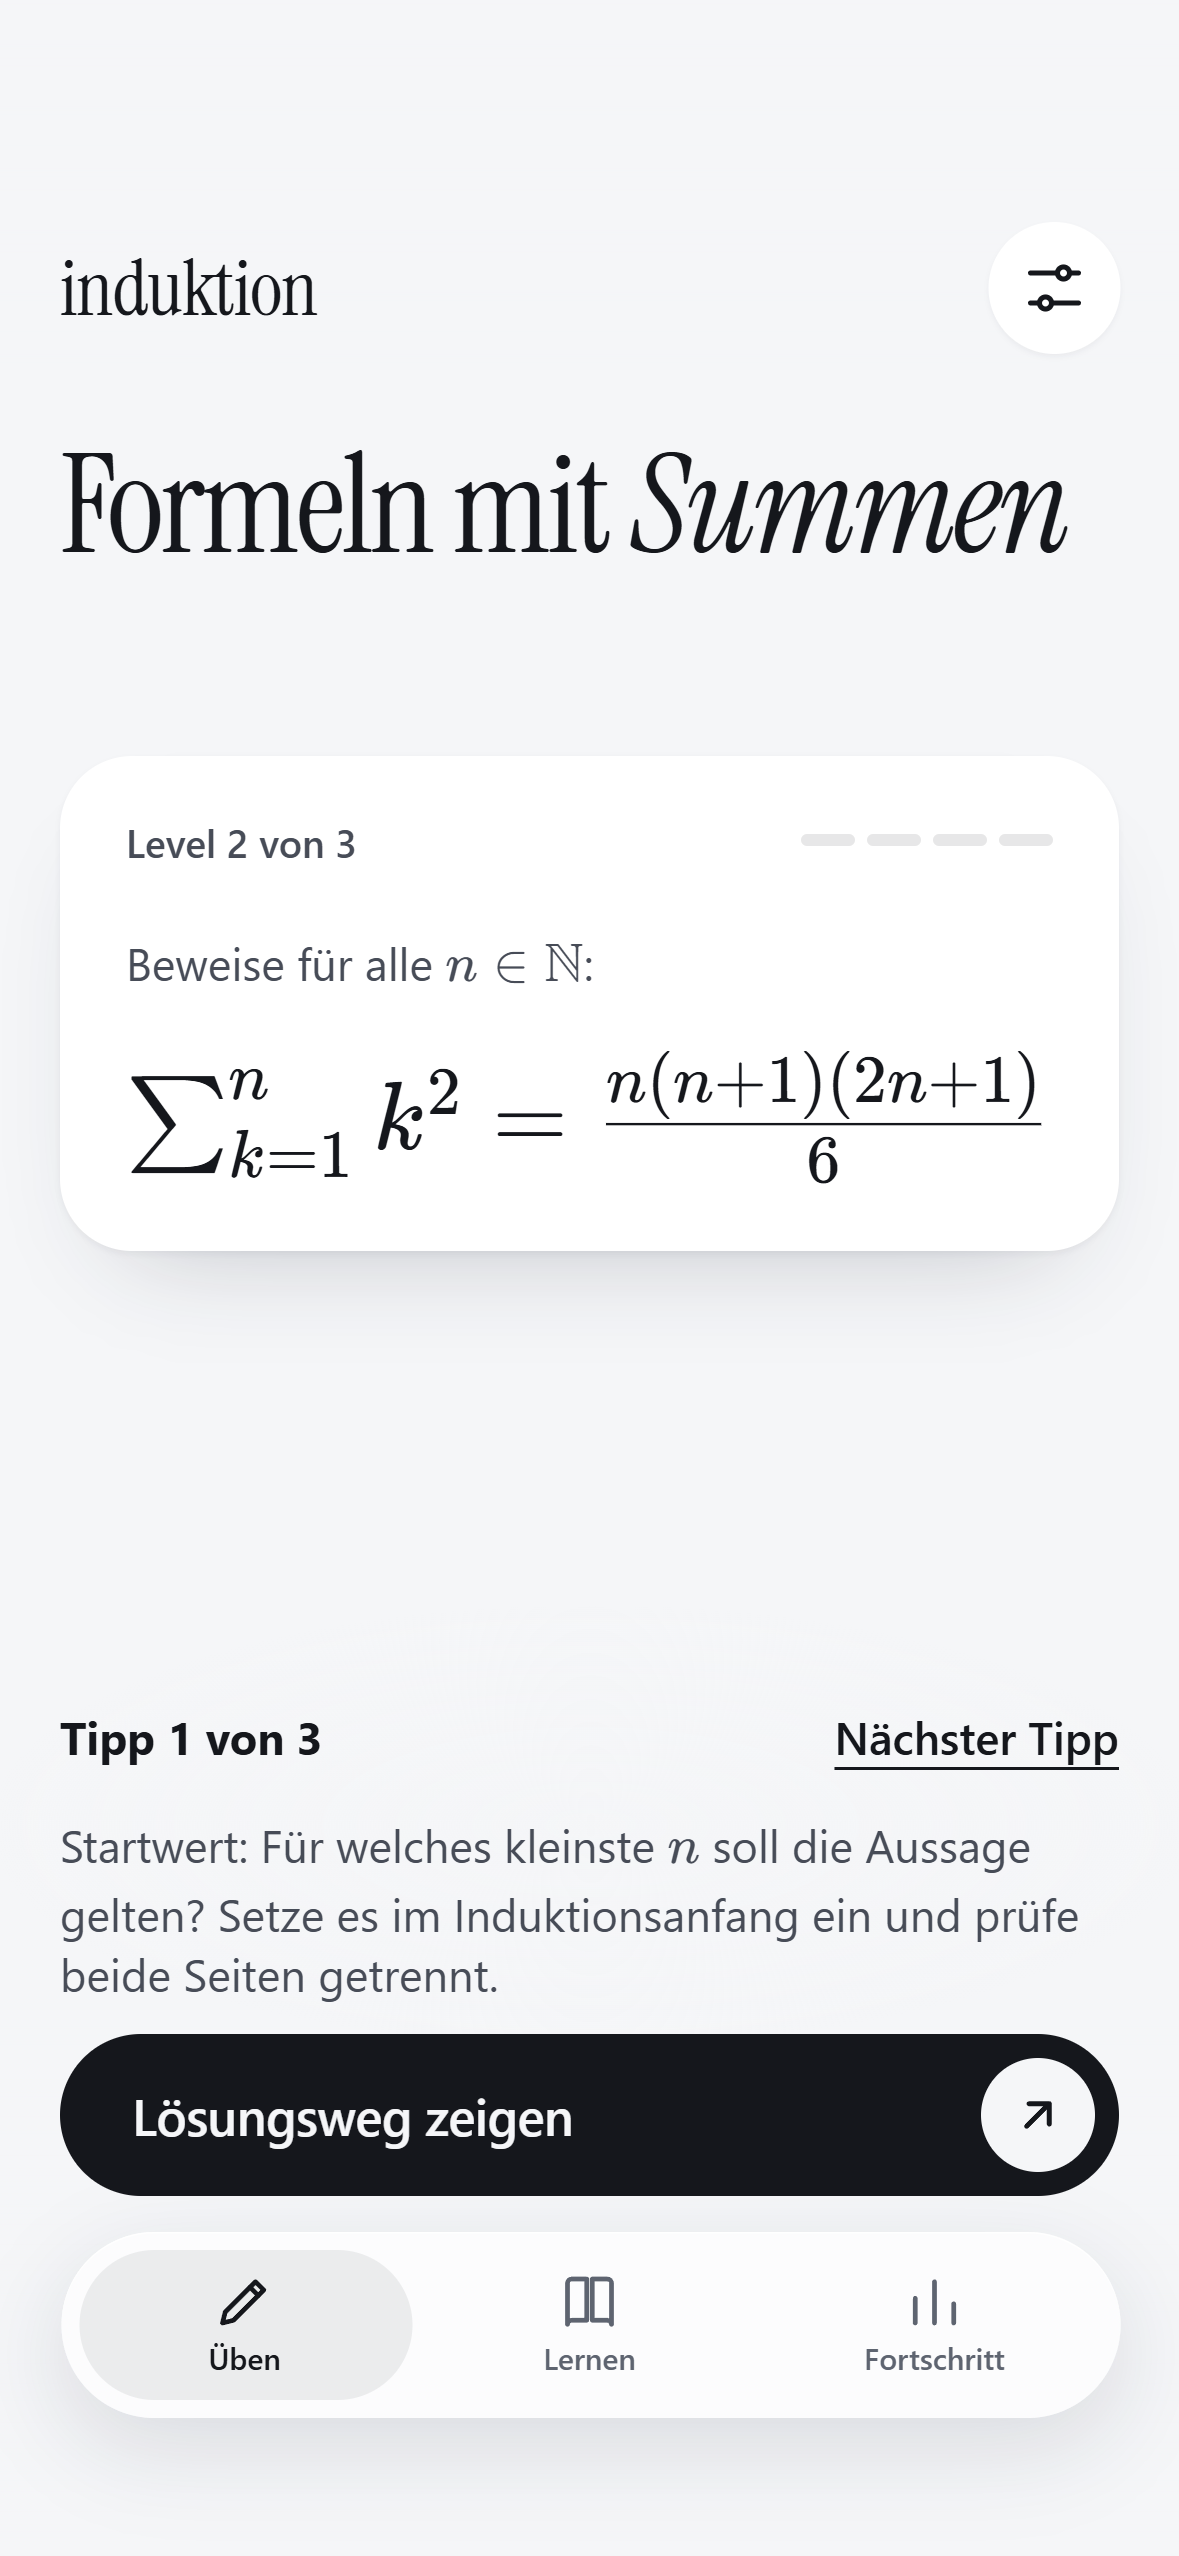
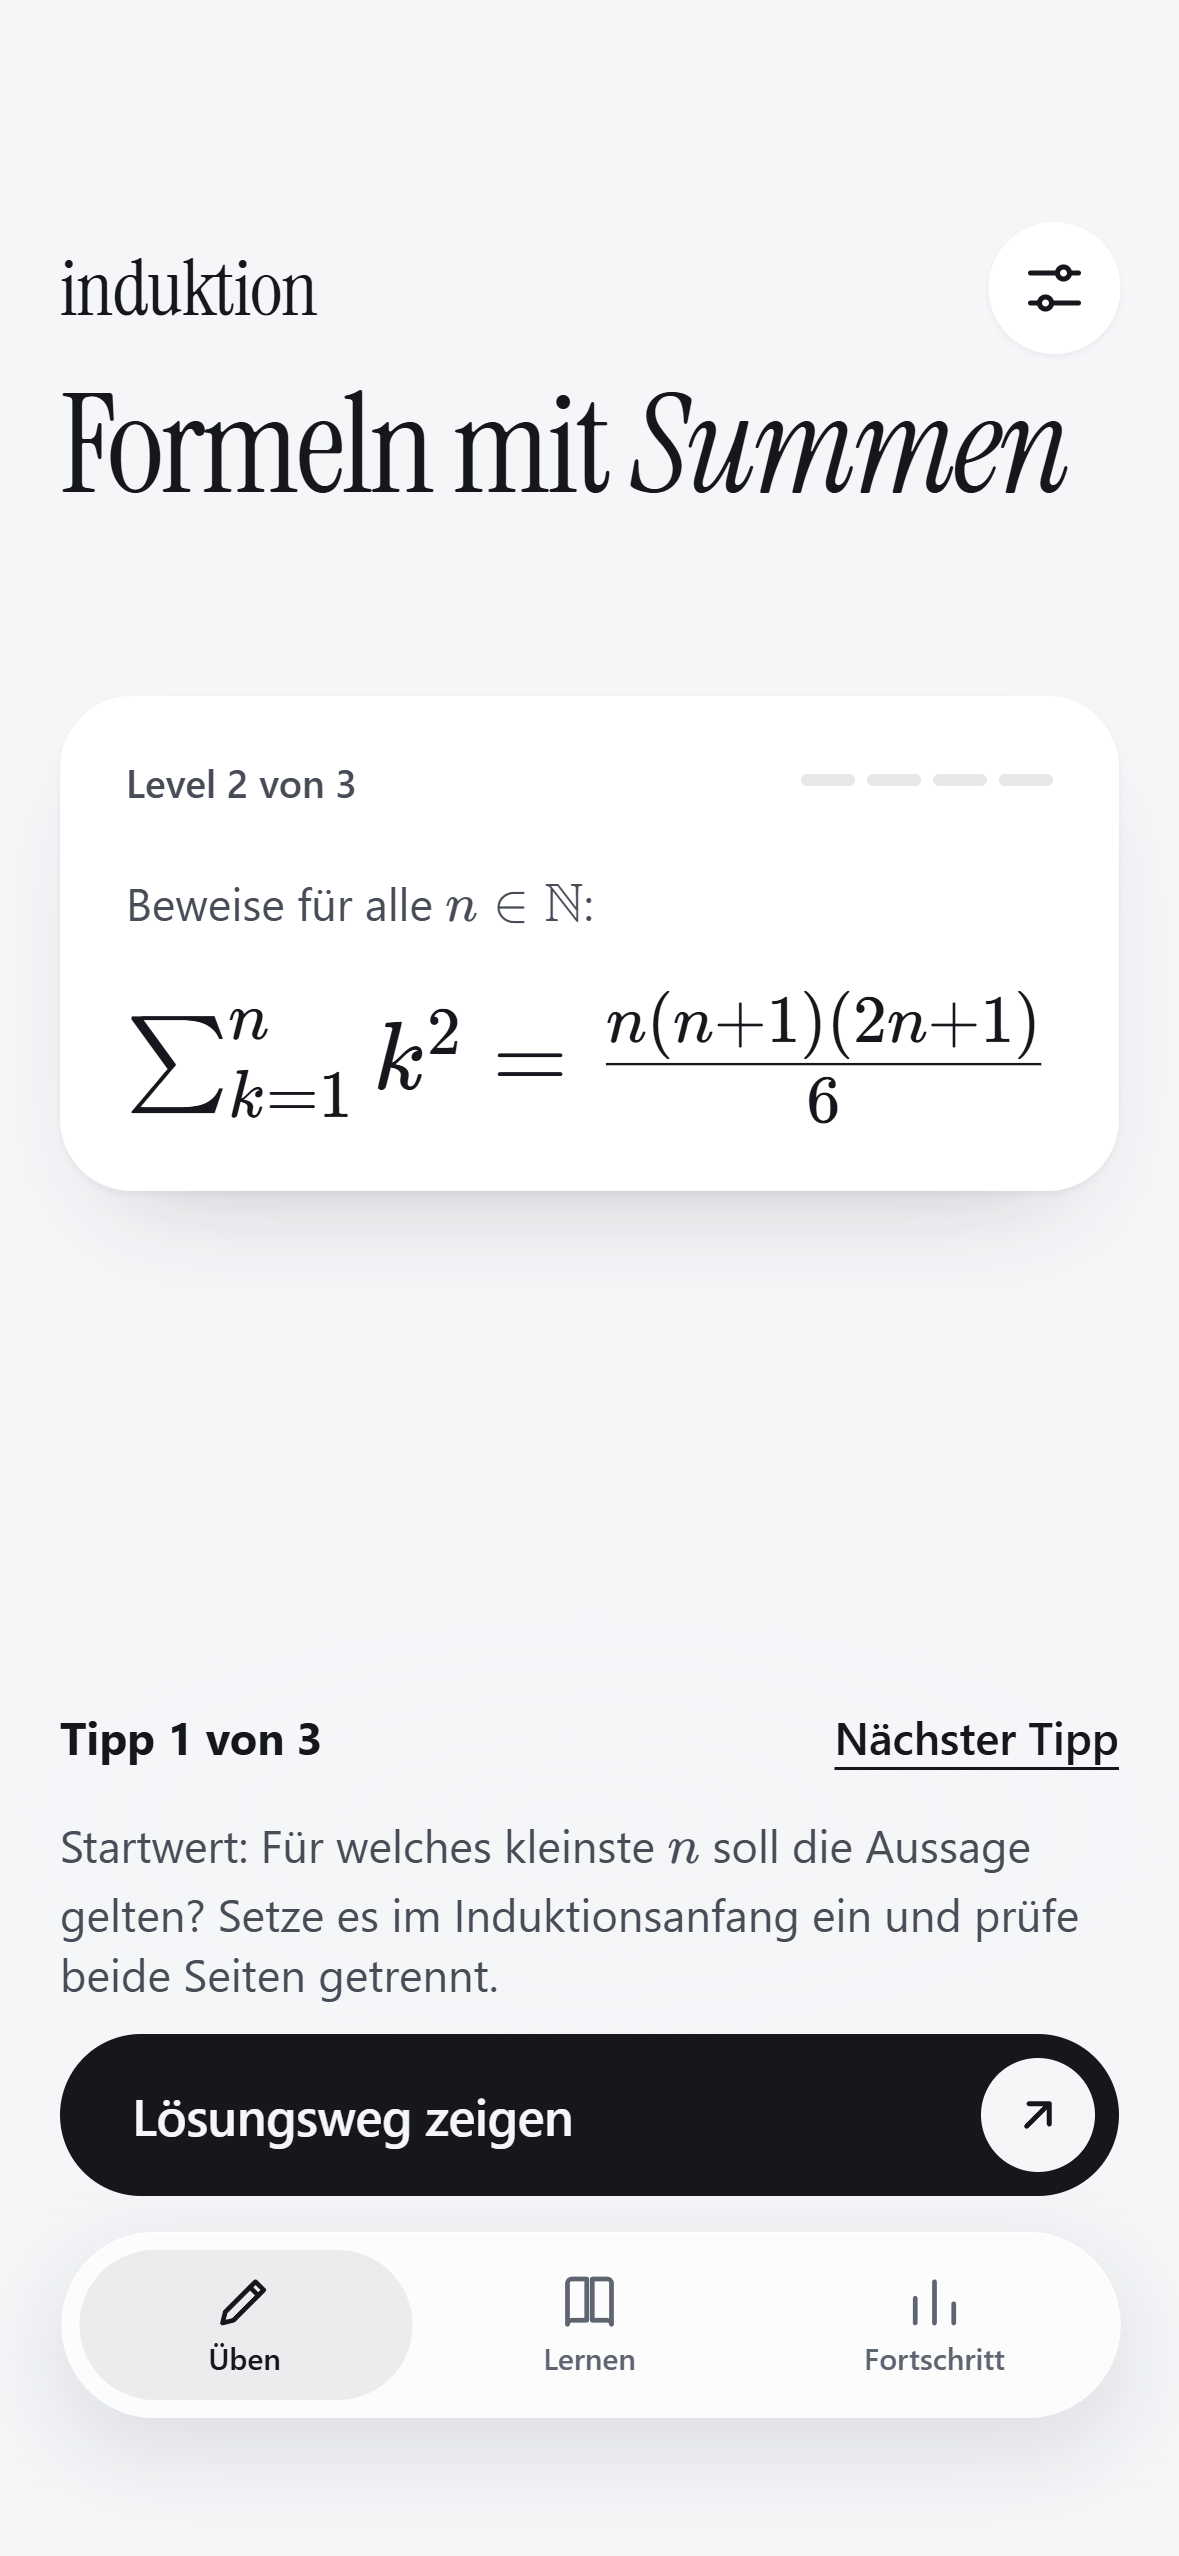
fix: weicher Blur-Verlauf oben und unten, Domino-Demo entfernt, weniger Leerraum, Landingpage ohne Rahmen

Changed region(s): [[0.0916, 0.2782, 0.8855, 0.4945], [0.0611, 0.1545, 0.916, 0.2164], [0.458, 0.34, 0.4885, 0.4018]]

diff --git a/app/css/app.css b/app/css/app.css
@@ -42,13 +42,15 @@ html { scroll-behavior: smooth; overscroll-behavior-y: contain; background: var(
 body {
   margin: 0; min-height: 100dvh; background: var(--ground); color: var(--ink); font: 400 1rem/1.35 var(--ui);
   overflow-x: hidden; touch-action: manipulation; -webkit-font-smoothing: antialiased;
-  padding: calc(var(--sat) + 74px) 0 calc(var(--sab) + 190px);
+  padding: calc(var(--sat) + 62px) 0 calc(var(--sab) + 150px);
 }
 main { max-width: calc(var(--col) + 2 * var(--m)); margin: 0 auto; padding: 0 var(--m); outline: none; }
 button, a, .tabbar { -webkit-user-select: none; user-select: none; -webkit-touch-callout: none; }
 button { font: inherit; color: inherit; cursor: pointer; border: 0; background: none; padding: 0; }
 button:active:not(:disabled) { transform: scale(0.97); }
 :focus-visible { outline: 2px solid var(--ink); outline-offset: 3px; border-radius: 6px; }
+main:focus-visible { outline: none; }
+body:not([data-view="ueben"]) { padding-top: calc(var(--sat) + 28px); }
 svg.i { width: 24px; height: 24px; fill: none; stroke: currentColor; stroke-width: 1.7; stroke-linecap: round; stroke-linejoin: round; flex: none; }
 
 .gb { position: fixed; left: 0; right: 0; z-index: 30; pointer-events: none; isolation: isolate; }
@@ -79,7 +81,7 @@ body:not([data-view="ueben"]) #topicBtn { visibility: hidden; }
 /* ---------- Titel ---------- */
 h1.page, .tt h1 { margin: 0; font: 400 2.7059rem/1.02 var(--serif); letter-spacing: -0.02em; text-wrap: balance; }
 h1 em { font-style: italic; }
-.tt { margin: 12px 0 clamp(22px, 7dvh, 64px); }
+.tt { margin: 4px 0 clamp(22px, 7dvh, 64px); }
 .tt.pg { margin-bottom: 22px; }
 
 /* ---------- Die Aufgabe ---------- */
@@ -166,18 +168,8 @@ h1 em { font-style: italic; }
 .example .ex { display: grid; grid-template-columns: 56px minmax(0, 1fr); gap: 4px 10px; align-items: baseline; padding: 8px 0; border-top: var(--hair) solid var(--rule); }
 .example .ex:first-of-type { border-top: 0; }
 .example .ex b { font: 700 0.8824rem var(--ui); } .example .ex span { font-size: 0.8824rem; line-height: 1.2353rem; color: var(--ink-2); } .example .ex .eq { grid-column: 2; font-size: 1rem; margin: 0; }
-.chain-demo { display: grid; grid-template-columns: repeat(6, 1fr); align-items: end; height: 96px; margin-top: 24px; padding: 0 4px; }
-.dm { position: relative; width: 22px; height: 62px; border-radius: 5px; background: var(--ink); transform-origin: 0 100%; transition: transform 0.45s cubic-bezier(0.5, 0, 0.7, 1), background 0.3s; }
-.dm::after { content: ""; position: absolute; left: 4px; right: 4px; top: 50%; height: 1.5px; background: var(--ground); opacity: 0.55; }
-.dm.fell { transform: rotate(43deg); background: var(--accent); }
-.dm.gap { background: none; border: 1.5px dashed var(--ink-3); } .dm.gap::after { display: none; }
-.dm.wob { animation: wob 0.35s; } @keyframes wob { 30% { transform: rotate(-5deg); } 60% { transform: rotate(3deg); } }
-.chain-labels { display: grid; grid-template-columns: repeat(6, 1fr); padding: 6px 4px 0; font-size: 0.7059rem; color: var(--ink-2); font-variant-numeric: tabular-nums; }
-.opts-d { display: grid; margin-top: 18px; }
 .set { display: flex; align-items: center; justify-content: space-between; gap: 16px; padding: 12px 0; border-top: var(--hair) solid var(--rule); min-height: 56px; }
 .set .seg3 { margin: 0; width: 210px; } .set .seg3 button { font-size: 0.8235rem; }
-.demo-row { display: flex; align-items: center; gap: 16px; margin-top: 16px; }
-.demo-row .msg { margin: 0; font-size: 0.8824rem; color: var(--ink-2); }
 h2.sec { margin: 40px 0 4px; font: 400 1.6471rem/1.1 var(--serif); letter-spacing: -0.01em; }
 .part { display: grid; grid-template-columns: 32px 1fr; gap: 4px 8px; align-items: baseline; padding: 11px 0; border-top: var(--hair) solid var(--rule); }
 .part b { font: 400 1.6471rem/1 var(--serif); color: var(--accent-text); grid-row: span 2; }

diff --git a/index.html b/index.html
@@ -41,7 +41,6 @@ nav .btn{min-height:40px;padding:0 20px;font-size:.95rem}
 .top .btns{display:flex;gap:12px;justify-content:center;flex-wrap:wrap;margin-top:24px}
 .phones{display:grid;grid-template-columns:repeat(3,1fr);gap:clamp(10px,3vw,36px);align-items:start;margin-top:56px}
 .phones>*:nth-child(2){margin-top:40px}
-.framed{border-radius:9% / 4.2%;box-shadow:0 0 0 6px var(--ink),0 24px 60px -20px rgba(21,23,28,.4)}
 .row{display:grid;grid-template-columns:1fr 1fr;gap:56px;align-items:center;padding:72px 0}
 .row.flip .shot{order:2}
 .row .shot{max-width:300px;margin:0 auto;width:100%}
@@ -85,15 +84,15 @@ dialog .btns{display:flex;gap:10px}dialog .btn{flex:1}
     <button class="btn ghost" id="how" type="button">Auf dem iPhone installieren</button>
   </div>
   <div class="phones">
-    <img class="framed" src="assets/screens/aufgabe.png" alt="Eine Aufgabe zur Summenformel" width="1179" height="2556">
-    <img class="framed" src="assets/screens/loesungsweg.png" alt="Der Lösungsweg, Schritt für Schritt" width="1179" height="2556">
-    <img class="framed" src="assets/screens/thema.png" alt="Thema auswählen" width="1179" height="2556">
+    <img src="assets/screens/aufgabe.png" alt="Eine Aufgabe zur Summenformel" width="1179" height="2556">
+    <img src="assets/screens/loesungsweg.png" alt="Der Lösungsweg, Schritt für Schritt" width="1179" height="2556">
+    <img src="assets/screens/thema.png" alt="Thema auswählen" width="1179" height="2556">
   </div>
 </header>
 
 <main class="wrap">
   <section class="row rv">
-    <img class="framed shot" src="assets/screens/aufgabe.png" alt="Aufgabe mit Formel" width="1179" height="2556" loading="lazy">
+    <img class="shot" src="assets/screens/aufgabe.png" alt="Aufgabe mit Formel" width="1179" height="2556" loading="lazy">
     <div>
       <h2>Jedes Mal <em>neu.</em></h2>
       <p class="lead">Nichts ist abgetippt. Jede Aufgabe wird erzeugt, mit eigenen Zahlen und der passenden Lösung.</p>
@@ -106,7 +105,7 @@ dialog .btns{display:flex;gap:10px}dialog .btn{flex:1}
   </section>
 
   <section class="row flip rv">
-    <img class="framed shot" src="assets/screens/loesungsweg.png" alt="Lösungsweg" width="1179" height="2556" loading="lazy">
+    <img class="shot" src="assets/screens/loesungsweg.png" alt="Lösungsweg" width="1179" height="2556" loading="lazy">
     <div>
       <h2>Schritt für <em>Schritt.</em></h2>
       <p class="lead">Löse selbst auf Papier. Dann tippst du weiter und siehst nur die nächste Zeile.</p>
@@ -119,7 +118,7 @@ dialog .btns{display:flex;gap:10px}dialog .btn{flex:1}
   </section>
 
   <section class="row rv">
-    <img class="framed shot" src="assets/screens/fortschritt.png" alt="Fortschritt" width="1179" height="2556" loading="lazy">
+    <img class="shot" src="assets/screens/fortschritt.png" alt="Fortschritt" width="1179" height="2556" loading="lazy">
     <div>
       <h2>Lernen und <em>merken.</em></h2>
       <p class="lead">Eine kurze Erklärung, wie Induktion funktioniert, und eine Übersicht, was schon sitzt.</p>

diff --git a/app/js/app.js b/app/js/app.js
@@ -303,15 +303,6 @@ function viewLearn() {
       <div class="ex"><b>A(2)</b><span>dieselbe Aussage für n = 2</span><div class="eq">${km("1+2=\\frac{2\\cdot 3}{2}", true)}</div></div>
       <div class="ex"><b>A(n+1)</b><span>dieselbe Aussage für die nächste Zahl</span><div class="eq">${km("1+2+\\dots+(n+1)=\\frac{(n+1)(n+2)}{2}", true)}</div></div>
     </div>
-    <h2 class="sec">Das Dominoprinzip</h2>
-    <p class="body-t">Jeder Stein ist die Aussage für eine Zahl. Fällt der erste, und jeder Stein reißt den nächsten mit, fallen alle. Probiere es aus:</p>
-    <div class="chain-demo" id="demo" aria-hidden="true">${Array.from({ length: 6 }, () => '<i class="dm"></i>').join("")}</div>
-    <div class="chain-labels" aria-hidden="true">${Array.from({ length: 6 }, (_, i) => `<span>n = ${i + 1}</span>`).join("")}</div>
-    <div class="opts-d">
-      <label class="set"><span>Der erste Stein fällt (Induktionsanfang)</span><input id="cA" type="checkbox" class="sw" checked /></label>
-      <label class="set"><span>Jeder Stein trifft den nächsten (Induktionsschritt)</span><input id="cS" type="checkbox" class="sw" checked /></label>
-    </div>
-    <div class="demo-row"><button class="btn-ink" id="push" type="button">Anstoßen</button><p class="msg" id="dmsg" role="status"></p></div>
     <h2 class="sec">Die vier Teile eines Beweises</h2>
     <div class="part"><b>1</b><span>Induktionsanfang</span><small>Setze die erste Zahl ein (meist n = 1) und rechne beide Seiten getrennt aus. Sie müssen gleich sein.</small></div>
     <div class="part"><b>2</b><span>Induktionsannahme</span><small>Nimm an, dass die Aussage für ein festes n stimmt. Das ist eine Annahme, noch kein Beweis.</small></div>
@@ -325,19 +316,6 @@ function viewLearn() {
     <p class="src">Aufbau angelehnt an das Skript „Beweise durch vollständige Induktion“ von Luise Unger (FernUniversität in Hagen). Alle Aufgaben erzeugt die App selbst. © 2026 Nikita Berger</p>`, "Lernen");
   mathify(view);
   fit(view);
-  const stones = $$("#demo .dm"), push = $("#push"), msg = $("#dmsg"), cA = $("#cA"), cS = $("#cS");
-  const reset = () => { msg.textContent = ""; stones.forEach((s, i) => { s.classList.remove("fell", "wob"); s.classList.toggle("gap", !cS.checked && i === 3); }); };
-  cA.onchange = cS.onchange = () => { reset(); haptic("tap"); }; reset();
-  push.onclick = async () => {
-    reset();
-    if (!cA.checked) { stones[0].classList.add("wob"); msg.textContent = "Ohne Anfang fällt kein Stein."; haptic("error"); return; }
-    push.disabled = true;
-    for (const s of stones) {
-      if (s.classList.contains("gap")) { msg.textContent = "Ohne Schritt reißt die Kette ab."; haptic("error"); push.disabled = false; return; }
-      s.classList.add("fell"); haptic("tap"); await wait(170);
-    }
-    msg.textContent = "Alle gefallen."; haptic("success"); push.disabled = false;
-  };
 }
 
 // ---------- Start ----------

diff --git a/app/sw.js b/app/sw.js
@@ -1,7 +1,7 @@
 // © 2026 Nikita Berger
 // App-Shell wird vorab gecacht, CDN-Dateien (daisyUI, KaTeX, Fonts, web-haptics) beim ersten Laden.
 // Nach jeder Änderung an den Dateien V erhöhen, dann holt sich jedes Gerät die neue Fassung geschlossen.
-const V = "induktion-v3";
+const V = "induktion-v4";
 const SHELL = ["./", "index.html", "css/app.css", "js/app.js", "js/gen.js", "js/core.js", "js/fx.js", "manifest.webmanifest", "icons/icon.svg", "icons/icon-192.png", "icons/icon-512.png", "icons/apple-touch-icon.png"];
 
 self.addEventListener("install", (e) => e.waitUntil(caches.open(V).then((c) => c.addAll(SHELL)).then(() => self.skipWaiting())));

diff --git a/app/js/fx.js b/app/js/fx.js
@@ -17,7 +17,7 @@ export function gradualBlur(position, { height = "7rem", strength = 2, layers = 
   host.className = `gb gb-${position}`;
   host.setAttribute("aria-hidden", "true");
   host.style.height = height;
-  const dir = position === "top" ? "to bottom" : "to top";
+  const dir = position === "top" ? "to top" : "to bottom";
   const inc = 100 / layers;
   for (let i = 1; i <= layers; i++) {
     const blur = Math.pow(2, (i / layers) * 4) * 0.0625 * strength;
